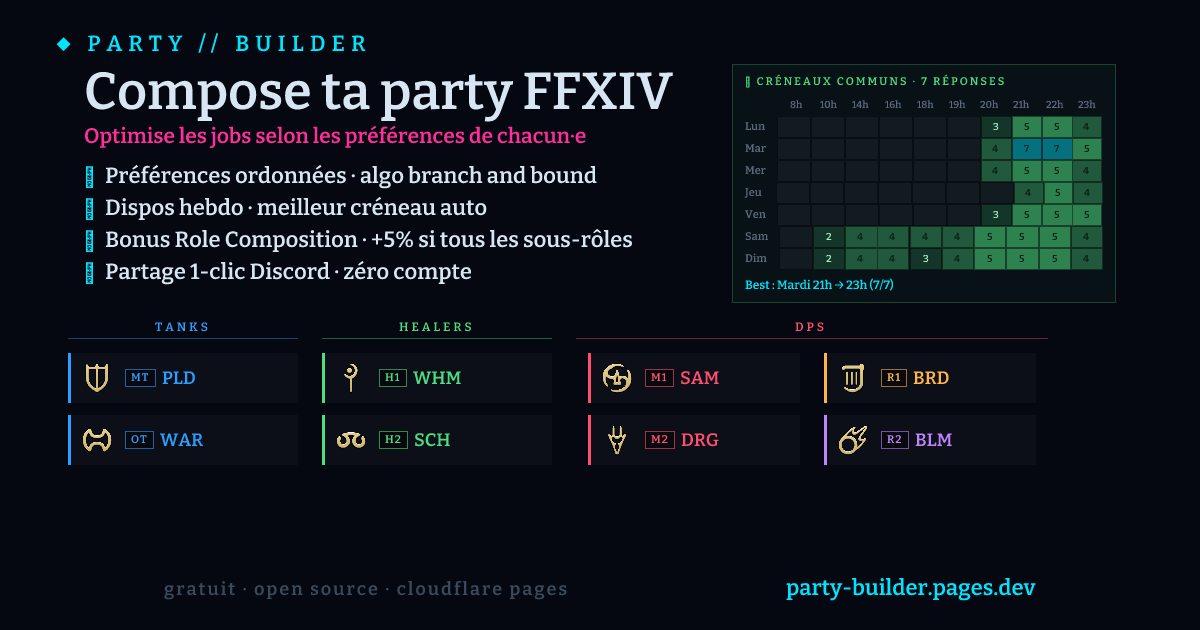
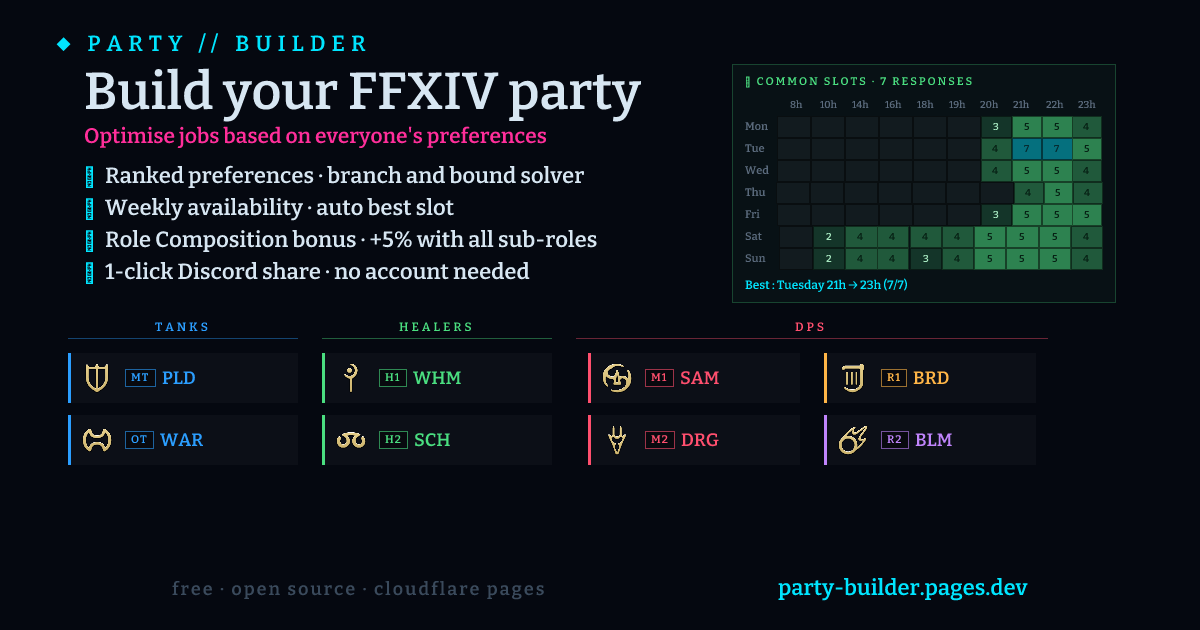
OG home : og:image statique EN au lieu du dynamique lang-aware
- index.html : og:image / twitter:image pointent maintenant sur /og.png?v=7
  (3 occurrences). Plus fiable pour les scrapers, pas de dépendance au
  worker et zéro latence de rasterization. Les pages avec ?p=<roomId>
  passent toujours par le middleware qui réécrit vers /og/<id> dynamique.
- og.png : régénéré depuis /og-home avec Accept-Language: en (titre
  "Build your FFXIV party"). Cohérent peu importe la langue du scraper.

diff --git a/index.html b/index.html
@@ -12,8 +12,8 @@
 <meta property="og:site_name" content="Party Builder · FFXIV">
 <meta property="og:title" content="Party Builder · FFXIV">
 <meta property="og:description" content="Composition optimale de groupe pour FFXIV Dawntrail. 21 jobs, donjons et raids 4/8/24, partage en un lien.">
-<meta property="og:image" content="https://party-builder.pages.dev/og-home?v=1">
-<meta property="og:image:secure_url" content="https://party-builder.pages.dev/og-home?v=1">
+<meta property="og:image" content="https://party-builder.pages.dev/og.png?v=7">
+<meta property="og:image:secure_url" content="https://party-builder.pages.dev/og.png?v=7">
 <meta property="og:image:type" content="image/png">
 <meta property="og:image:width" content="1200">
 <meta property="og:image:height" content="630">
@@ -23,7 +23,7 @@
 <meta name="twitter:card" content="summary_large_image">
 <meta name="twitter:title" content="Party Builder · FFXIV">
 <meta name="twitter:description" content="Composition optimale de groupe pour FFXIV Dawntrail.">
-<meta name="twitter:image" content="https://party-builder.pages.dev/og-home?v=1">
+<meta name="twitter:image" content="https://party-builder.pages.dev/og.png?v=7">
 
 <!-- Theme color (barre URL mobile / embeds) -->
 <meta name="theme-color" content="#00e5ff">
